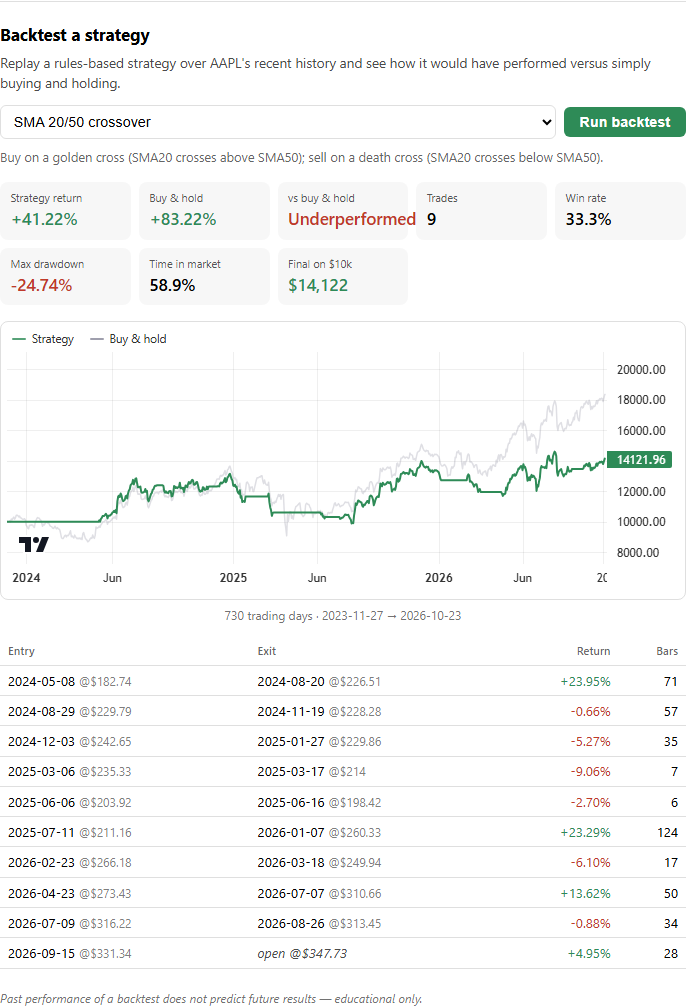
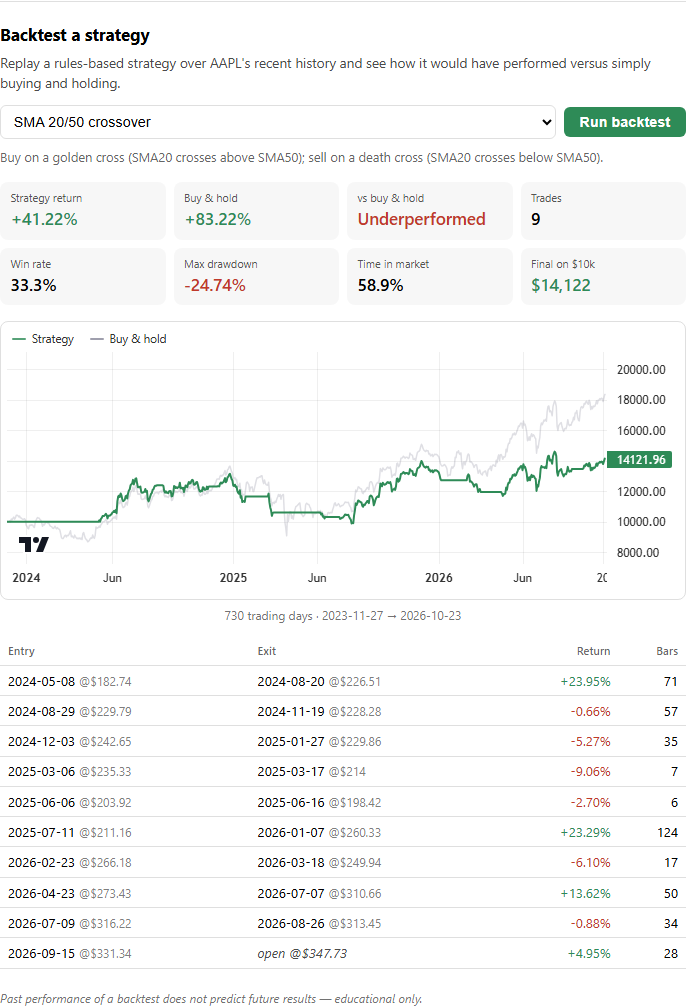
Add dark-mode screenshots that follow the viewer's GitHub theme
The screenshot script now captures every shot in light and dark (the app
already follows prefers-color-scheme), and the README uses <picture> so
GitHub shows the dark set to dark-theme viewers. Also refreshes the light
backtester shot with the fixed metric tiles.

diff --git a/scripts/take_screenshots.py b/scripts/take_screenshots.py
@@ -7,7 +7,7 @@ Dev-only — Playwright is NOT in backend/requirements.txt. One-time setup:
 With the backend (:8000) and frontend (:5173) running:
     python scripts/take_screenshots.py [--url http://localhost:5173] [--symbol AAPL]
 
-Writes PNGs to docs/screenshots/. Fails loudly if the app shows an error or the
+Writes PNGs to docs/screenshots/, once per theme (dark ones end in -dark). Fails loudly if the app shows an error or the
 explanation is the raw fallback (missing key / LLM error), so a bad capture
 never silently ends up in the README.
 """
@@ -59,30 +59,36 @@ def main() -> None:
 
     with sync_playwright() as p:
         browser = p.chromium.launch()
-        page = browser.new_page(viewport=VIEWPORT)
-        page.goto(args.url)
-        page.click(".landing-cta")
+        # The app follows prefers-color-scheme, so emulating it captures each
+        # theme; the README picks one per viewer with <picture>.
+        for scheme, suffix in (("light", ""), ("dark", "-dark")):
+            context = browser.new_context(viewport=VIEWPORT, color_scheme=scheme)
+            page = context.new_page()
+            page.goto(args.url)
+            page.click(".landing-cta")
 
-        # Beginner pass: full page view, beginner explanation, candlestick chart.
-        analyze(page, args.symbol, "beginner")
-        page.evaluate("window.scrollTo(0, 0)")
-        page.screenshot(path=OUT_DIR / "analysis.png")
-        print("saved docs/screenshots/analysis.png")
-        capture(page, ".explanation", "explanation-beginner.png")
-        capture(page, ".stock-chart", "chart.png")
+            # Beginner pass: full page view, beginner explanation, candlestick chart.
+            analyze(page, args.symbol, "beginner")
+            page.evaluate("window.scrollTo(0, 0)")
+            page.screenshot(path=OUT_DIR / f"analysis{suffix}.png")
+            print(f"saved docs/screenshots/analysis{suffix}.png")
+            capture(page, ".explanation", f"explanation-beginner{suffix}.png")
+            capture(page, ".stock-chart", f"chart{suffix}.png")
 
-        # Advanced pass: same ticker, deeper explanation.
-        analyze(page, args.symbol, "advanced")
-        capture(page, ".explanation", "explanation-advanced.png")
+            # Advanced pass: same ticker, deeper explanation.
+            analyze(page, args.symbol, "advanced")
+            capture(page, ".explanation", f"explanation-advanced{suffix}.png")
 
-        # Backtester: run the default strategy and wait for the equity curve.
-        page.click(".backtester .bt-controls button")
-        page.wait_for_selector(".bt-result, .backtester .error", timeout=60_000)
-        if page.locator(".backtester .error").count():
-            raise RuntimeError(f"Backtest error: {page.inner_text('.backtester .error')}")
-        page.wait_for_selector(".equity-chart canvas")
-        page.wait_for_timeout(CHART_SETTLE_MS)
-        capture(page, ".backtester", "backtester.png")
+            # Backtester: run the default strategy and wait for the equity curve.
+            page.click(".backtester .bt-controls button")
+            page.wait_for_selector(".bt-result, .backtester .error", timeout=60_000)
+            if page.locator(".backtester .error").count():
+                raise RuntimeError(f"Backtest error: {page.inner_text('.backtester .error')}")
+            page.wait_for_selector(".equity-chart canvas")
+            page.wait_for_timeout(CHART_SETTLE_MS)
+            capture(page, ".backtester", f"backtester{suffix}.png")
+
+            context.close()
 
         browser.close()
 

diff --git a/README.md b/README.md
@@ -12,15 +12,43 @@ against buy-and-hold.
 
 ## Screenshots
 
-![Analysis page for AAPL](docs/screenshots/analysis.png)
+<!-- Each image follows the viewer's GitHub theme. Regenerate both with scripts/take_screenshots.py. -->
 
-| Beginner explanation | Advanced explanation |
-|---|---|
-| ![Beginner explanation](docs/screenshots/explanation-beginner.png) | ![Advanced explanation](docs/screenshots/explanation-advanced.png) |
+<picture>
+  <source media="(prefers-color-scheme: dark)" srcset="docs/screenshots/analysis-dark.png">
+  <img alt="Analysis page for AAPL" src="docs/screenshots/analysis.png">
+</picture>
 
-![Candlestick chart with indicator overlays and signals](docs/screenshots/chart.png)
+<table>
+  <tr>
+    <th>Beginner explanation</th>
+    <th>Advanced explanation</th>
+  </tr>
+  <tr>
+    <td valign="top">
+      <picture>
+        <source media="(prefers-color-scheme: dark)" srcset="docs/screenshots/explanation-beginner-dark.png">
+        <img alt="Beginner explanation" src="docs/screenshots/explanation-beginner.png">
+      </picture>
+    </td>
+    <td valign="top">
+      <picture>
+        <source media="(prefers-color-scheme: dark)" srcset="docs/screenshots/explanation-advanced-dark.png">
+        <img alt="Advanced explanation" src="docs/screenshots/explanation-advanced.png">
+      </picture>
+    </td>
+  </tr>
+</table>
 
-![Backtester results with equity curve](docs/screenshots/backtester.png)
+<picture>
+  <source media="(prefers-color-scheme: dark)" srcset="docs/screenshots/chart-dark.png">
+  <img alt="Candlestick chart with indicator overlays and signals" src="docs/screenshots/chart.png">
+</picture>
+
+<picture>
+  <source media="(prefers-color-scheme: dark)" srcset="docs/screenshots/backtester-dark.png">
+  <img alt="Backtester results with equity curve" src="docs/screenshots/backtester.png">
+</picture>
 
 ## How it works
 
